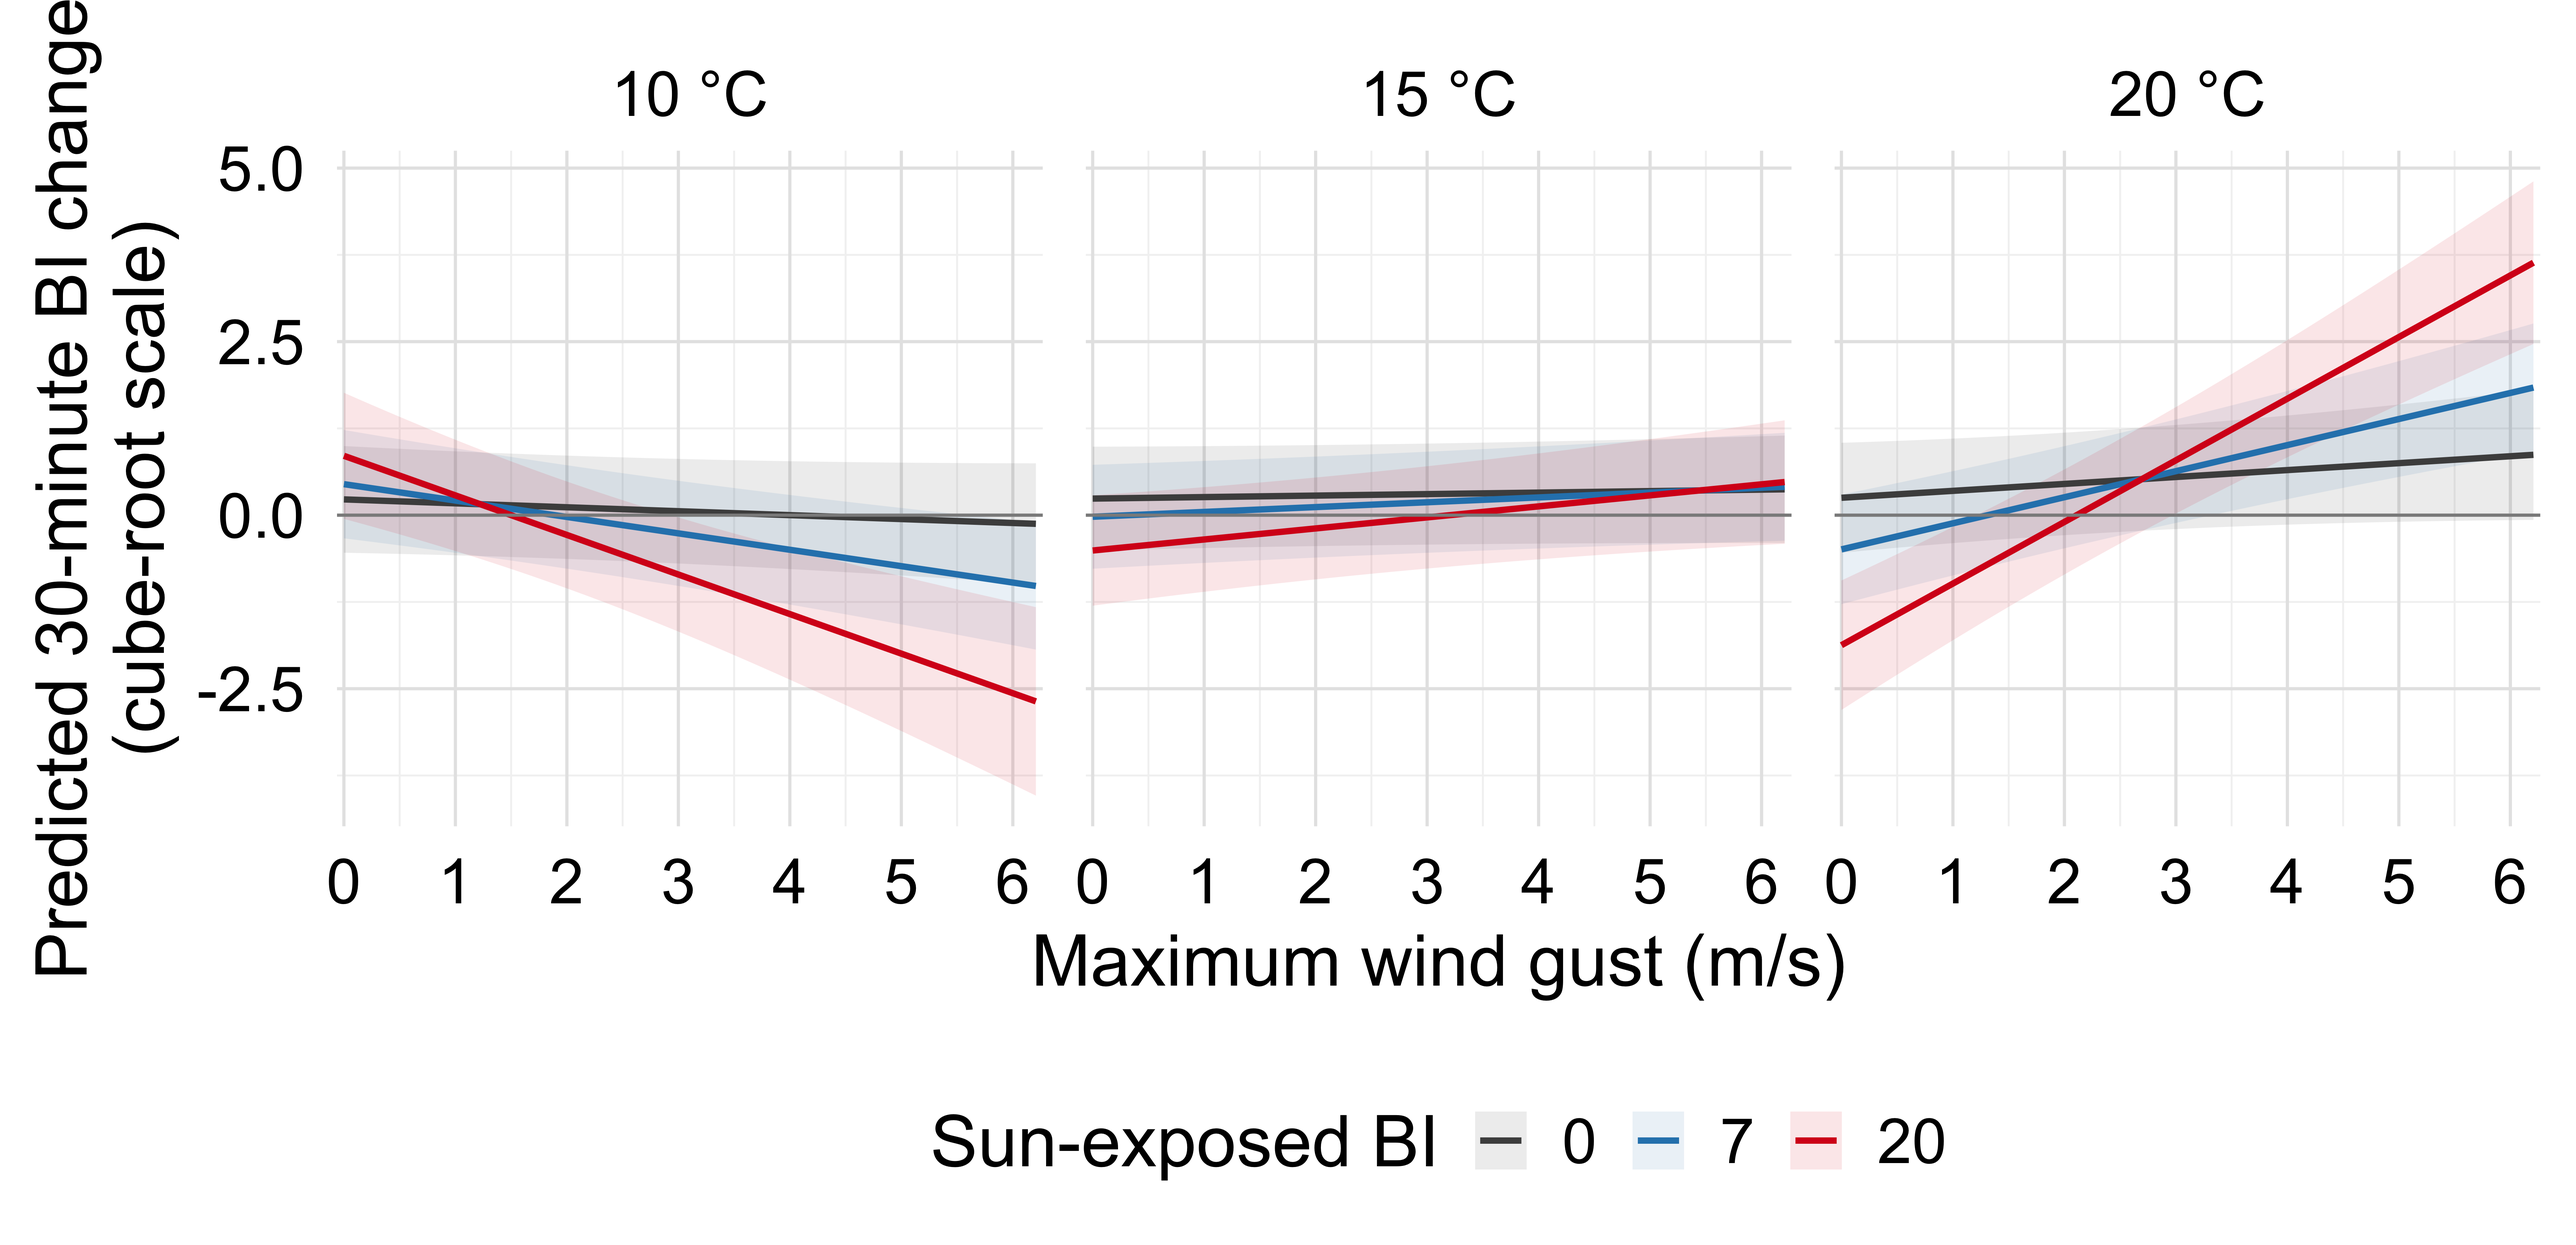
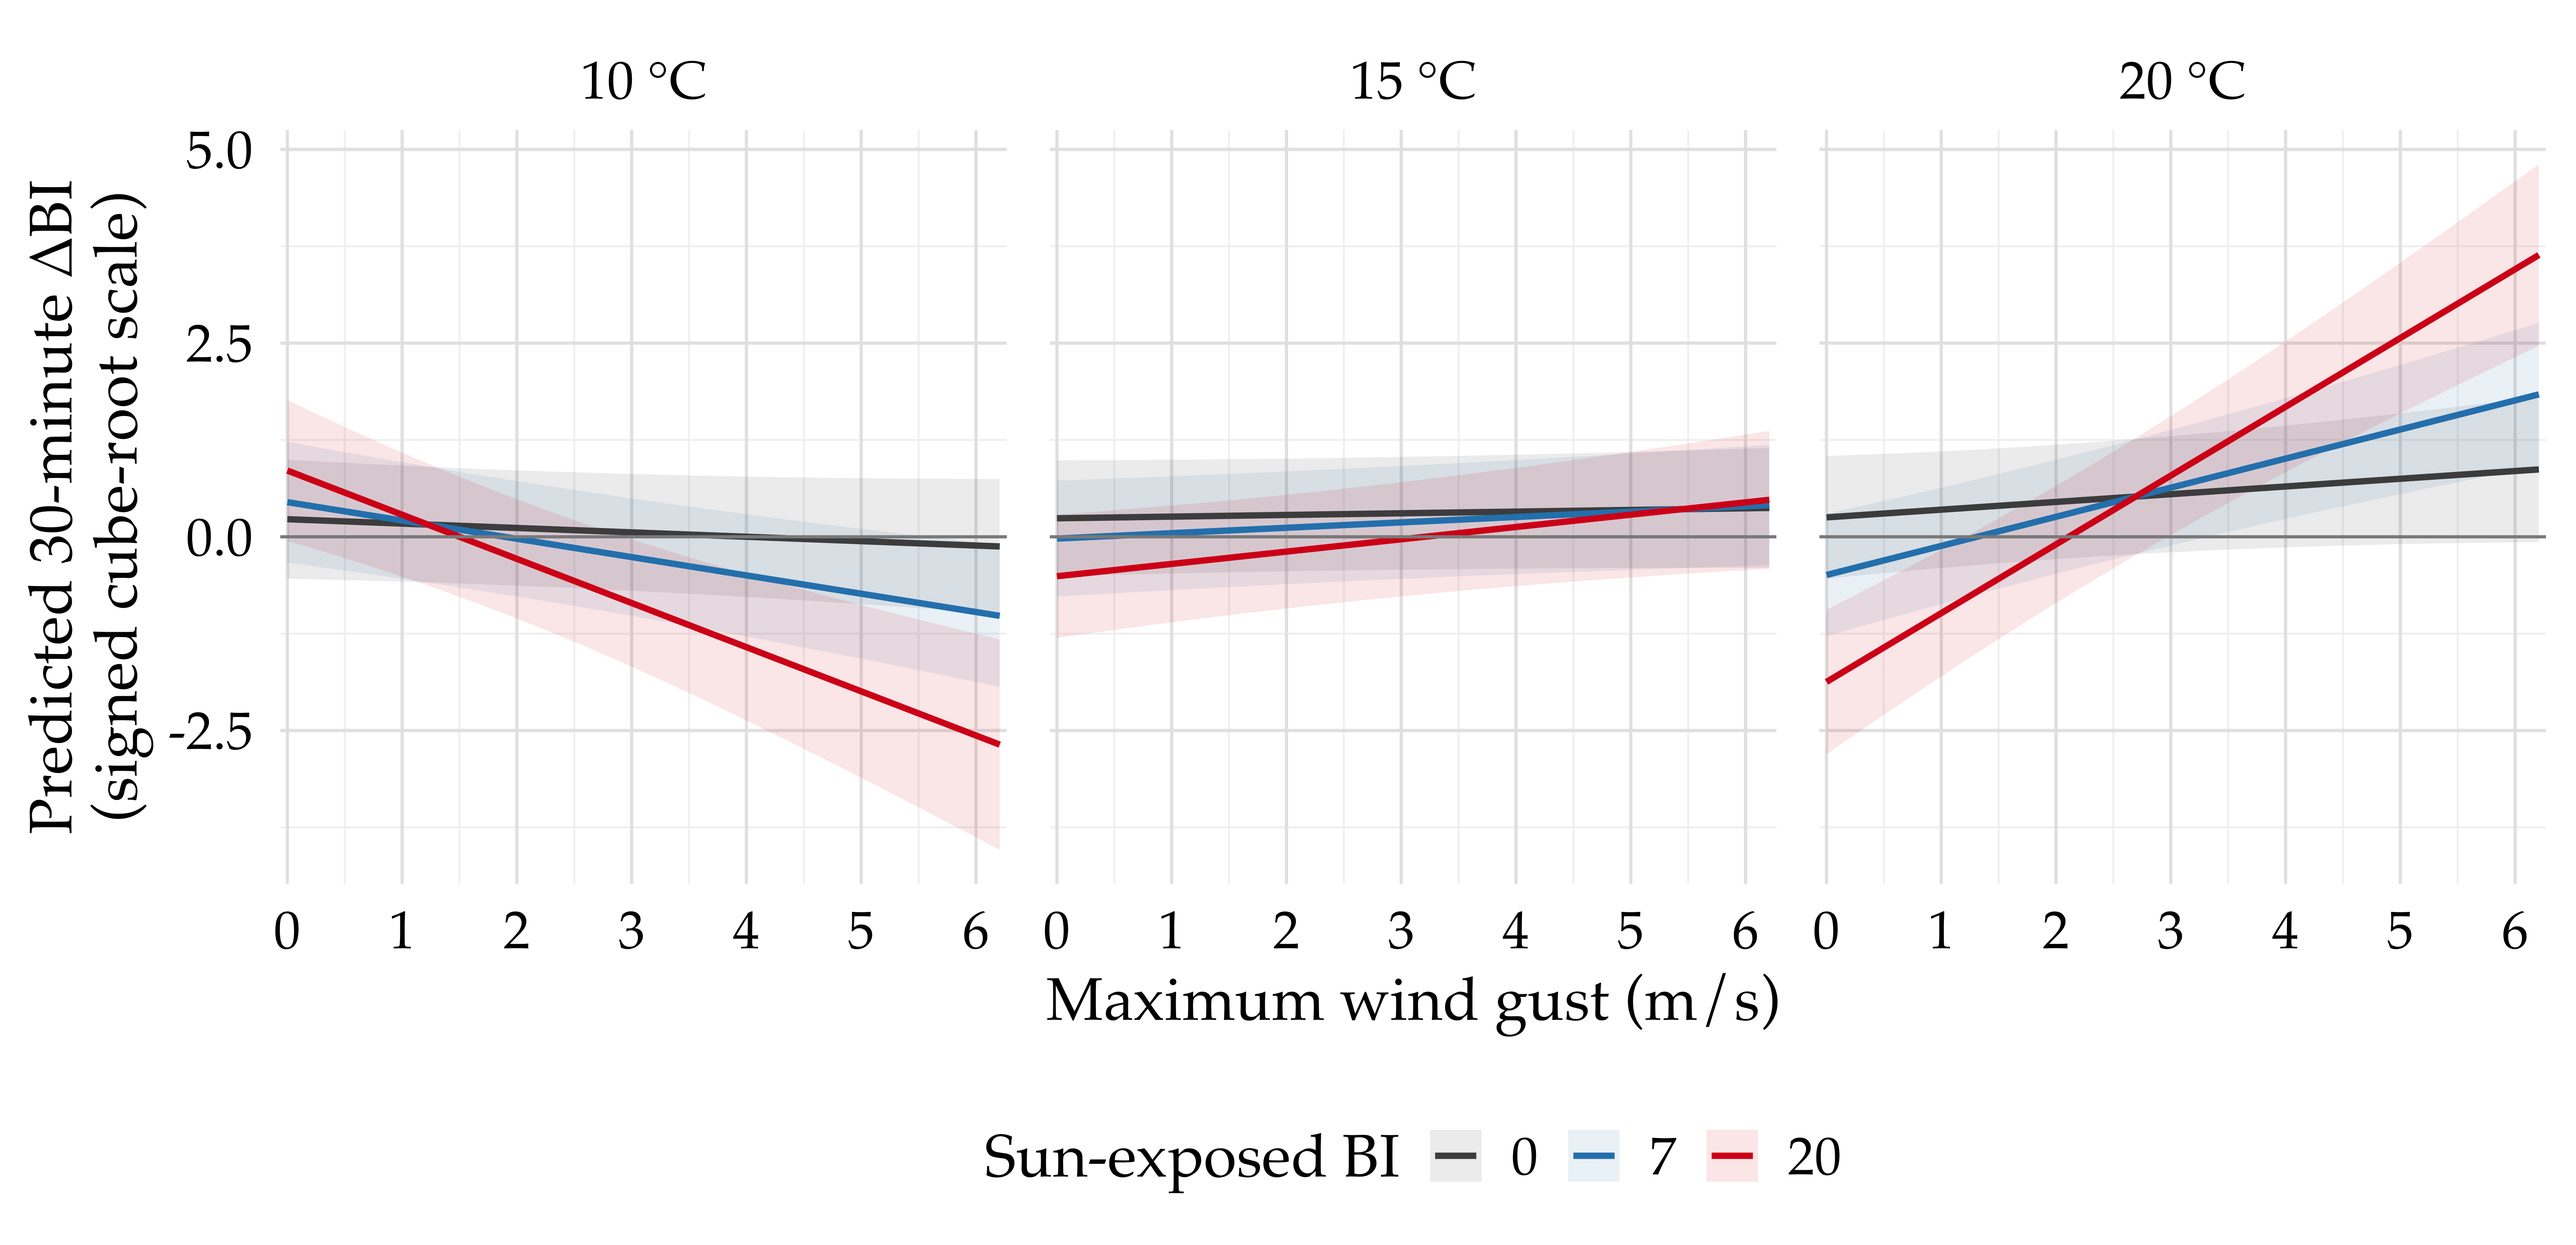
Match manuscript figure typography to printed journal layout

diff --git a/analysis/README.md b/analysis/README.md
@@ -11,6 +11,8 @@ Rscript -e 'install.packages(c("dplyr", "ggplot2", "gratia", "here", "mgcv", "nl
 
 Python dependencies are recorded in [pyproject.toml](../pyproject.toml) and [uv.lock](../uv.lock). The R packages are not version locked. Regenerated plots or floating-point results can vary with package versions. The committed manuscript figures preserve the submitted versions.
 
+Figures 2 through 4 use Palatino to match the manuscript's serif typography. Install that font before regenerating these figures on another system. The shared [figure style](lib/manuscript_figure_style.R) sizes axis and legend titles at 9 points and tick and legend labels at 8 points after placement in the MDPI template's 13.86 cm text column. The scripts account for each figure's inclusion width. Figure 1 and the diagnostic figures retain their existing styling.
+
 The main analysis reads [analysis_30_minute.csv](../data/analysis_inputs/analysis_30_minute.csv) and [analysis_next_day.csv](../data/analysis_inputs/analysis_next_day.csv) directly. Their field names use BI, delta BI and explicit weather units. They contain 17 and 10 columns respectively. These inputs stay in the manuscript repository, separate from the observational release. Every column is used by a retained analysis, descriptive summary or the focused observer sensitivity. The signed square-root next-day response is calculated in R. The stored signed cube-root 30-minute response is preserved from the historical input.
 
 This command regenerates descriptive summaries, the descriptive figure, wind-exceedance statistics, all 121 harmonized candidate fits and their selected models, and the Next Day figure and diagnostics.
